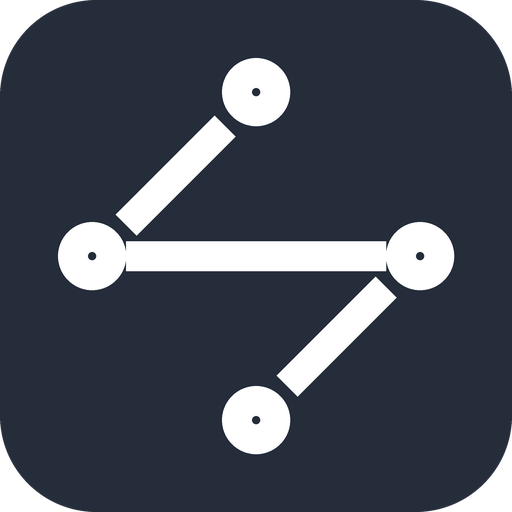
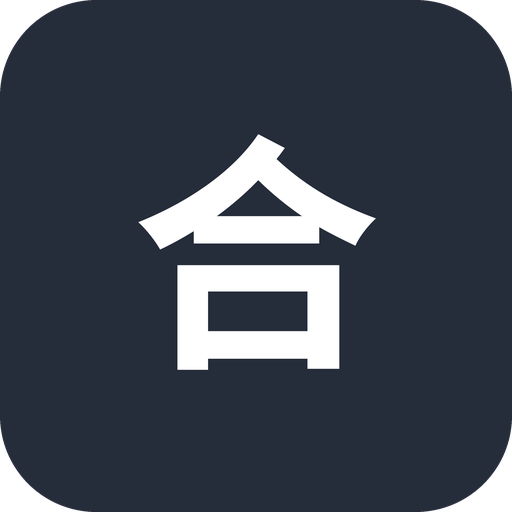
fix(ui): rebrand app and allocate account costs

Changed region(s): [[0.0938, 0.0938, 0.9062, 0.9062]]

diff --git a/web/app/src/features/subscriptions/CardsPage.tsx b/web/app/src/features/subscriptions/CardsPage.tsx
@@ -123,6 +123,8 @@ function SubscriptionCard({
   const { t } = useTranslation()
   const subscription = view.subscription
   const archived = subscription.archived_at !== null
+  const displayedCostYuan = view.allocated_cost_yuan || view.cost_yuan
+  const displayedProfitYuan = view.allocated_profit_yuan || view.profit_yuan
   const accentClass = archived
     ? "bg-muted-foreground/35"
     : view.days_remaining <= 0
@@ -167,11 +169,11 @@ function SubscriptionCard({
           <span className="tabular-nums">¥{view.price_yuan}</span>
         </MetaCell>
         <MetaCell label={t("cards.cost")}>
-          <span className="font-medium text-gold tabular-nums">¥{view.cost_yuan}</span>
+          <span className="font-medium text-gold tabular-nums">¥{displayedCostYuan}</span>
         </MetaCell>
         <MetaCell label={subscription.is_resale ? t("cards.agencyFee") : t("cards.profit")}>
           <span className="font-medium text-success tabular-nums">
-            ¥{subscription.is_resale ? view.agency_fee_yuan : view.profit_yuan}
+            ¥{subscription.is_resale ? view.agency_fee_yuan : displayedProfitYuan}
           </span>
         </MetaCell>
         <MetaCell label={t("cards.cycle")}>{view.cycle_desc}</MetaCell>
@@ -388,6 +390,8 @@ export function CardsPage() {
         view.next_due_date,
         view.price_yuan,
         view.cost_yuan,
+        view.allocated_cost_yuan,
+        view.allocated_profit_yuan,
         view.agency_fee_yuan,
         ...(view.channel_labels ?? []),
       ].some((field) => field?.toLowerCase().includes(query)),

diff --git a/web/app/src/features/auth/LoginPage.tsx b/web/app/src/features/auth/LoginPage.tsx
@@ -45,10 +45,10 @@ export function LoginPage() {
     <div className="grid min-h-dvh bg-background lg:grid-cols-[minmax(320px,0.8fr)_minmax(560px,1.2fr)]">
       <aside className="relative hidden overflow-hidden border-r border-[var(--login-panel-border)] bg-[var(--login-panel)] p-10 text-[var(--login-panel-foreground)] lg:flex lg:flex-col lg:justify-between xl:p-14">
         <div className="flex items-center gap-3 animate-fade-up">
-          <BrandIcon className="size-10" />
+          <BrandIcon className="size-10 bg-white text-[#252c3a] dark:bg-white dark:text-[#252c3a]" />
           <div>
             <h1 className="text-lg font-semibold">{t("common.appName")}</h1>
-            <p className="mt-1 text-xs text-[var(--login-panel-muted)]">Workspace Console</p>
+            <p className="mt-1 text-xs text-[var(--login-panel-muted)]">Shared Access Console</p>
           </div>
         </div>
 

diff --git a/web/app/src/locales/en.ts b/web/app/src/locales/en.ts
@@ -1,7 +1,7 @@
 export default {
   translation: {
     common: {
-      appName: "SeatFlow",
+      appName: "合序",
       save: "Save",
       cancel: "Cancel",
       edit: "Edit",
@@ -32,7 +32,7 @@ export default {
       themeDark: "Dark",
       themeSystem: "System",
       language: "Language",
-      workspace: "Operations Console",
+      workspace: "Shared Subscriptions",
       operations: "Operations",
       system: "System",
       collapse: "Collapse sidebar",
@@ -186,8 +186,8 @@ export default {
       empty: "No subscriptions yet.",
       createFirst: "Create the first one",
       perPerson: "Per seat",
-      cost: "Cost",
-      profit: "Profit",
+      cost: "Allocated cost",
+      profit: "Allocated profit",
       agencyFee: "Agency fee",
       resale: "Resale",
       cycle: "Cycle",

diff --git a/web/app/src/locales/zh-CN.ts b/web/app/src/locales/zh-CN.ts
@@ -1,7 +1,7 @@
 export default {
   translation: {
     common: {
-      appName: "SeatFlow",
+      appName: "合序",
       save: "保存",
       cancel: "取消",
       edit: "编辑",
@@ -32,7 +32,7 @@ export default {
       themeDark: "深色",
       themeSystem: "跟随系统",
       language: "语言",
-      workspace: "拼车运营台",
+      workspace: "共享订阅管理",
       operations: "运营管理",
       system: "系统",
       collapse: "收起侧栏",
@@ -189,8 +189,8 @@ export default {
       searchEmpty: "没有匹配的订阅",
       filterLabel: "筛选",
       perPerson: "人均",
-      cost: "成本",
-      profit: "利润",
+      cost: "分摊成本",
+      profit: "分摊利润",
       agencyFee: "中介费",
       resale: "串货",
       cycle: "周期",

diff --git a/web/app/src/components/brand.tsx b/web/app/src/components/brand.tsx
@@ -1,8 +1,6 @@
-import { Waypoints } from "lucide-react"
-
 import { cn } from "@/lib/utils"
 
-export const APP_NAME = "SeatFlow"
+export const APP_NAME = "合序"
 
 export function BrandIcon({ className }: { className?: string }) {
   return (
@@ -13,7 +11,7 @@ export function BrandIcon({ className }: { className?: string }) {
       )}
       aria-hidden="true"
     >
-      <Waypoints className="size-5" strokeWidth={2.1} />
+      <span className="translate-y-px text-[18px] leading-none font-bold">合</span>
     </span>
   )
 }

diff --git a/web/app/src/features/redemptions/RedeemPage.tsx b/web/app/src/features/redemptions/RedeemPage.tsx
@@ -427,7 +427,7 @@ export function RedeemPage() {
               </span>
               {trackingToken ? "申请进度" : "兑换信息"}
             </div>
-            <span className="text-[11px] font-medium text-muted-foreground">SEATFLOW / TEAM</span>
+            <span className="text-[11px] font-medium text-muted-foreground">HESU / TEAM</span>
           </div>
           {trackingToken ? (
             <div className="grid min-h-[360px] gap-6 p-6 sm:p-8">

diff --git a/web/app/index.html b/web/app/index.html
@@ -7,7 +7,7 @@
     <link rel="manifest" href="/manifest.json" />
     <meta name="viewport" content="width=device-width, initial-scale=1.0" />
     <meta name="theme-color" content="#f6f7f9" />
-    <title>SeatFlow</title>
+    <title>合序</title>
     <script>
       // Avoid a theme flash before next-themes hydrates; light is the default.
       try {

diff --git a/web/app/src/api/types.ts b/web/app/src/api/types.ts
@@ -30,8 +30,10 @@ export interface SubscriptionView {
   subscription: Subscription
   price_yuan: string
   cost_yuan: string
+  allocated_cost_yuan?: string
   agency_fee_yuan: string
   profit_yuan: string
+  allocated_profit_yuan?: string
   cycle_desc: string
   next_due_date: string
   days_remaining: number

diff --git a/internal/service/subscription.go b/internal/service/subscription.go
@@ -81,23 +81,25 @@ func (service *SubscriptionService) now() time.Time {
 
 // SubscriptionView is a list/card presentation model.
 type SubscriptionView struct {
-	Subscription    model.Subscription `json:"subscription"`
-	PriceYuan       string             `json:"price_yuan"`
-	CostYuan        string             `json:"cost_yuan"`
-	AgencyFeeYuan   string             `json:"agency_fee_yuan"`
-	ProfitYuan      string             `json:"profit_yuan"`
-	CycleDesc       string             `json:"cycle_desc"`
-	NextDueDate     string             `json:"next_due_date"`
-	DaysRemaining   int                `json:"days_remaining"`
-	ChannelLabels   []string           `json:"channel_labels"`
-	OffsetsText     string             `json:"offsets_text"`
-	LastError       string             `json:"last_error"`
-	AccountID       int64              `json:"account_id"`
-	AccountName     string             `json:"account_name"`
-	SeatID          int64              `json:"seat_id"`
-	SeatName        string             `json:"seat_name"`
-	BoardedAt       string             `json:"boarded_at"`
-	ArchivedAtLabel string             `json:"archived_at_label"`
+	Subscription        model.Subscription `json:"subscription"`
+	PriceYuan           string             `json:"price_yuan"`
+	CostYuan            string             `json:"cost_yuan"`
+	AllocatedCostYuan   string             `json:"allocated_cost_yuan"`
+	AgencyFeeYuan       string             `json:"agency_fee_yuan"`
+	ProfitYuan          string             `json:"profit_yuan"`
+	AllocatedProfitYuan string             `json:"allocated_profit_yuan"`
+	CycleDesc           string             `json:"cycle_desc"`
+	NextDueDate         string             `json:"next_due_date"`
+	DaysRemaining       int                `json:"days_remaining"`
+	ChannelLabels       []string           `json:"channel_labels"`
+	OffsetsText         string             `json:"offsets_text"`
+	LastError           string             `json:"last_error"`
+	AccountID           int64              `json:"account_id"`
+	AccountName         string             `json:"account_name"`
+	SeatID              int64              `json:"seat_id"`
+	SeatName            string             `json:"seat_name"`
+	BoardedAt           string             `json:"boarded_at"`
+	ArchivedAtLabel     string             `json:"archived_at_label"`
 	// BillCount is set for archived rows (used to gate soft-delete).
 	BillCount int `json:"bill_count"`
 	// CanSoftDelete is true when archived and BillCount == 0.
@@ -124,7 +126,68 @@ func (service *SubscriptionService) ListView() ([]SubscriptionView, error) {
 		}
 		views = append(views, view)
 	}
+	if err := service.allocateActiveAccountCosts(views); err != nil {
+		return nil, err
+	}
 	return views, nil
+}
+
+// allocateActiveAccountCosts spreads each owner account's monthly cost across
+// its active non-resale customers. The allocated cents always add back up to
+// exactly one account cost, including costs that do not divide evenly.
+func (service *SubscriptionService) allocateActiveAccountCosts(views []SubscriptionView) error {
+	accounts, err := service.Store.ListAccounts()
+	if err != nil {
+		return err
+	}
+	accountCosts := make(map[int64]int64, len(accounts))
+	for _, account := range accounts {
+		accountCosts[account.ID] = account.CostCents
+	}
+
+	groups := make(map[string][]int)
+	groupCosts := make(map[string]int64)
+	for index := range views {
+		view := &views[index]
+		if view.Subscription.IsResale {
+			view.AllocatedCostYuan = cycle.FormatCents(0)
+			view.AllocatedProfitYuan = cycle.FormatCents(view.Subscription.AgencyFeeCents)
+			continue
+		}
+		key := fmt.Sprintf("name:%s", displayAccountName(view.Subscription))
+		useLegacyCost := true
+		if view.AccountID > 0 {
+			key = fmt.Sprintf("id:%d", view.AccountID)
+			if accountCosts[view.AccountID] > 0 {
+				groupCosts[key] = accountCosts[view.AccountID]
+				useLegacyCost = false
+			}
+		}
+		if useLegacyCost && view.Subscription.CostCents > groupCosts[key] {
+			groupCosts[key] = view.Subscription.CostCents
+		}
+		groups[key] = append(groups[key], index)
+	}
+
+	for key, indexes := range groups {
+		sort.SliceStable(indexes, func(left int, right int) bool {
+			return views[indexes[left]].Subscription.ID < views[indexes[right]].Subscription.ID
+		})
+		costCents := groupCosts[key]
+		baseShare := costCents / int64(len(indexes))
+		remainder := costCents % int64(len(indexes))
+		for position, index := range indexes {
+			share := baseShare
+			if int64(position) < remainder {
+				share++
+			}
+			views[index].AllocatedCostYuan = cycle.FormatCents(share)
+			views[index].AllocatedProfitYuan = cycle.FormatCents(
+				views[index].Subscription.PricePerPersonCents - share,
+			)
+		}
+	}
+	return nil
 }
 
 func (service *SubscriptionService) buildView(
@@ -143,23 +206,25 @@ func (service *SubscriptionService) buildView(
 		archivedAtLabel = subscription.ArchivedAt.In(cycle.Location).Format("2006-01-02 15:04")
 	}
 	return SubscriptionView{
-		Subscription:    subscription,
-		PriceYuan:       cycle.FormatCents(subscription.PricePerPersonCents),
-		CostYuan:        cycle.FormatCents(subscription.CostCents),
-		AgencyFeeYuan:   cycle.FormatCents(subscription.AgencyFeeCents),
-		ProfitYuan:      cycle.FormatCents(profitCents),
-		CycleDesc:       cycle.DescribeCron(subscription.CronExpr),
-		NextDueDate:     cycle.FormatDate(nextDue),
-		DaysRemaining:   cycle.DaysRemaining(nextDue, now),
-		ChannelLabels:   scheduledNotificationLabels(subscription.NotifyOffsets),
-		OffsetsText:     cycle.FormatOffsets(subscription.NotifyOffsets),
-		LastError:       lastError,
-		AccountID:       subscription.AccountID,
-		AccountName:     displayAccountName(subscription),
-		SeatID:          subscription.SeatID,
-		SeatName:        subscription.SeatName,
-		BoardedAt:       subscription.BoardedAt,
-		ArchivedAtLabel: archivedAtLabel,
+		Subscription:        subscription,
+		PriceYuan:           cycle.FormatCents(subscription.PricePerPersonCents),
+		CostYuan:            cycle.FormatCents(subscription.CostCents),
+		AllocatedCostYuan:   cycle.FormatCents(subscription.CostCents),
+		AgencyFeeYuan:       cycle.FormatCents(subscription.AgencyFeeCents),
+		ProfitYuan:          cycle.FormatCents(profitCents),
+		AllocatedProfitYuan: cycle.FormatCents(profitCents),
+		CycleDesc:           cycle.DescribeCron(subscription.CronExpr),
+		NextDueDate:         cycle.FormatDate(nextDue),
+		DaysRemaining:       cycle.DaysRemaining(nextDue, now),
+		ChannelLabels:       scheduledNotificationLabels(subscription.NotifyOffsets),
+		OffsetsText:         cycle.FormatOffsets(subscription.NotifyOffsets),
+		LastError:           lastError,
+		AccountID:           subscription.AccountID,
+		AccountName:         displayAccountName(subscription),
+		SeatID:              subscription.SeatID,
+		SeatName:            subscription.SeatName,
+		BoardedAt:           subscription.BoardedAt,
+		ArchivedAtLabel:     archivedAtLabel,
 	}, nil
 }
 

diff --git a/internal/service/dashboard_test.go b/internal/service/dashboard_test.go
@@ -623,6 +623,75 @@ func TestComputeDashboardCountsAccountCostOnceAndIncludesEmptyAccounts(t *testin
 	}
 }
 
+func TestListViewAllocatesAccountCostOnceAcrossActiveUsers(t *testing.T) {
+	subscriptionService := openTestService(t)
+	accountID, err := subscriptionService.CreateAccount(service.CreateAccountInput{
+		Name:      "shared@example.com",
+		Email:     "shared@example.com",
+		CostYuan:  "85.01",
+		SeatNames: []string{"seat1", "seat2", "seat3"},
+	})
+	if err != nil {
+		t.Fatal(err)
+	}
+	seats, err := subscriptionService.Store.ListSeatsByAccount(accountID)
+	if err != nil {
+		t.Fatal(err)
+	}
+
+	firstID, err := subscriptionService.Create(service.CreateInput{
+		Name:             "first customer",
+		PriceYuan:        "90.00",
+		CronExpr:         "interval:30d",
+		NotifyOffsetsRaw: "0",
+		SeatID:           seats[0].ID,
+	})
+	if err != nil {
+		t.Fatal(err)
+	}
+	secondID, err := subscriptionService.Create(service.CreateInput{
+		Name:             "second customer",
+		PriceYuan:        "95.00",
+		CronExpr:         "interval:30d",
+		NotifyOffsetsRaw: "0",
+		SeatID:           seats[1].ID,
+	})
+	if err != nil {
+		t.Fatal(err)
+	}
+	resaleID, err := subscriptionService.Create(service.CreateInput{
+		Name:             "resale customer",
+		PriceYuan:        "0.00",
+		IsResale:         true,
+		AgencyFeeYuan:    "3.00",
+		CronExpr:         "interval:30d",
+		NotifyOffsetsRaw: "0",
+		SeatID:           seats[2].ID,
+	})
+	if err != nil {
+		t.Fatal(err)
+	}
+
+	views, err := subscriptionService.ListView()
+	if err != nil {
+		t.Fatal(err)
+	}
+	byID := make(map[int64]service.SubscriptionView, len(views))
+	for _, view := range views {
+		byID[view.Subscription.ID] = view
+	}
+
+	if view := byID[firstID]; view.AllocatedCostYuan != "42.51" || view.AllocatedProfitYuan != "47.49" {
+		t.Fatalf("first allocation = %s / %s, want 42.51 / 47.49", view.AllocatedCostYuan, view.AllocatedProfitYuan)
+	}
+	if view := byID[secondID]; view.AllocatedCostYuan != "42.50" || view.AllocatedProfitYuan != "52.50" {
+		t.Fatalf("second allocation = %s / %s, want 42.50 / 52.50", view.AllocatedCostYuan, view.AllocatedProfitYuan)
+	}
+	if view := byID[resaleID]; view.AllocatedCostYuan != "0.00" || view.AllocatedProfitYuan != "3.00" {
+		t.Fatalf("resale allocation = %s / %s, want 0.00 / 3.00", view.AllocatedCostYuan, view.AllocatedProfitYuan)
+	}
+}
+
 func TestCreateAndGetPreservesCostCents(t *testing.T) {
 	subscriptionService := openTestService(t)
 	_, seatIDs := createTestAccountWithSeats(t, subscriptionService, "成本账号", "位1")
